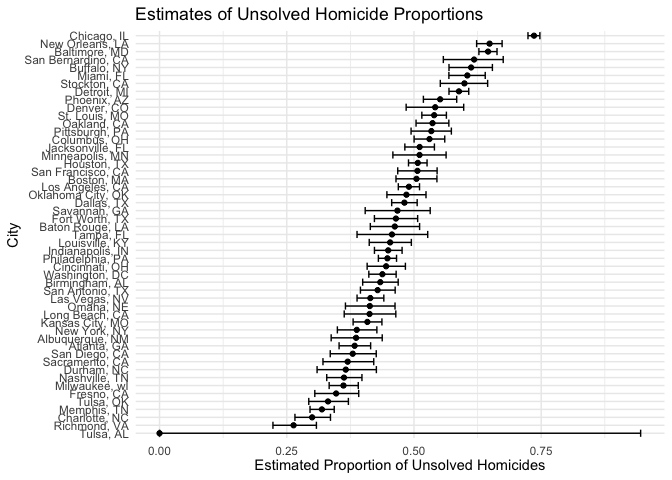
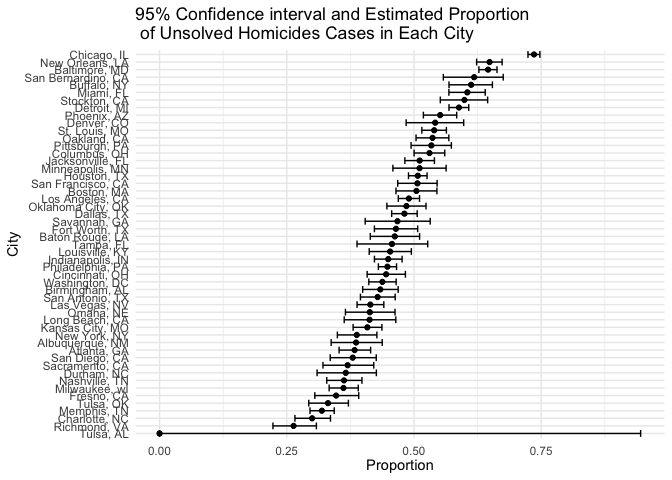
Add a check part in problem3

Changed region(s): [[0.0312, 0.0, 1.0, 0.9062], [0.375, 0.9375, 0.8125, 1.0], [0.0, 0.4688, 0.0312, 0.5312]]

diff --git a/p8105_hw5_yw3774.md b/p8105_hw5_yw3774.md
@@ -24,8 +24,10 @@ homic = read_csv(url_1)
 ### summary
 
 This dataset contains 52179 homicides conditions in 50 large U.S. cities
-with 12 variables. \* Let’s create a variable contains city and state \*
-Then summarize the total number of homicides and unsolved homicides
+with 12 variables. Missing values exist in victim\_race, victim\_age,
+victim\_race, and geographical coordindates. Missing values were changed
+to N/A. \* Let’s create a variable contains city and state \* Then
+summarize the total number of homicides and unsolved homicides
 
 ``` r
 city_state_homic = homic %>% 
@@ -115,8 +117,6 @@ homicide_all =
   select(city_state, estimate, conf.low, conf.high)
 ```
 
-    ## Warning in prop.test(x = .x, n = .y): Chi-squared approximation may be incorrect
-
 Create a plot to show the results:
 
 ``` r
@@ -129,8 +129,8 @@ homicide_all %>%
   geom_errorbar(aes(ymin = conf.low, ymax = conf.high)) +
   coord_flip() +
   labs(x = "City",
-       y = "Estimated Proportion of Unsolved Homicides",
-       title = "Estimates of Unsolved Homicide Proportions") +
+       y = "Proportion",
+       title = "95% Confidence interval and Estimated Proportion \n of Unsolved Homicides Cases in Each City") +
    theme(axis.text.x = element_text(vjust = 0.5, hjust = 0.5))
 ```
 
@@ -432,21 +432,18 @@ replace = function(x) {
 
 iris_missing_replace = map(iris_with_missing, replace)
 
-iris_missing_replace %>% 
+new_iris = iris_missing_replace %>% 
   as_tibble()
 ```
 
-    ## # A tibble: 150 × 5
-    ##    Sepal.Length Sepal.Width Petal.Length Petal.Width Species
-    ##           <dbl>       <dbl>        <dbl>       <dbl> <chr>  
-    ##  1         5.1          3.5         1.4         0.2  setosa 
-    ##  2         4.9          3           1.4         0.2  setosa 
-    ##  3         4.7          3.2         1.3         0.2  setosa 
-    ##  4         4.6          3.1         1.5         1.19 setosa 
-    ##  5         5            3.6         1.4         0.2  setosa 
-    ##  6         5.4          3.9         1.7         0.4  setosa 
-    ##  7         5.82         3.4         1.4         0.3  setosa 
-    ##  8         5            3.4         1.5         0.2  setosa 
-    ##  9         4.4          2.9         1.4         0.2  setosa 
-    ## 10         4.9          3.1         3.77        0.1  setosa 
-    ## # … with 140 more rows
+Check the result
+
+``` r
+new_iris %>%
+  summarise_all(~ sum(is.na(.)))
+```
+
+    ## # A tibble: 1 × 5
+    ##   Sepal.Length Sepal.Width Petal.Length Petal.Width Species
+    ##          <int>       <int>        <int>       <int>   <int>
+    ## 1            0           0            0           0       0
